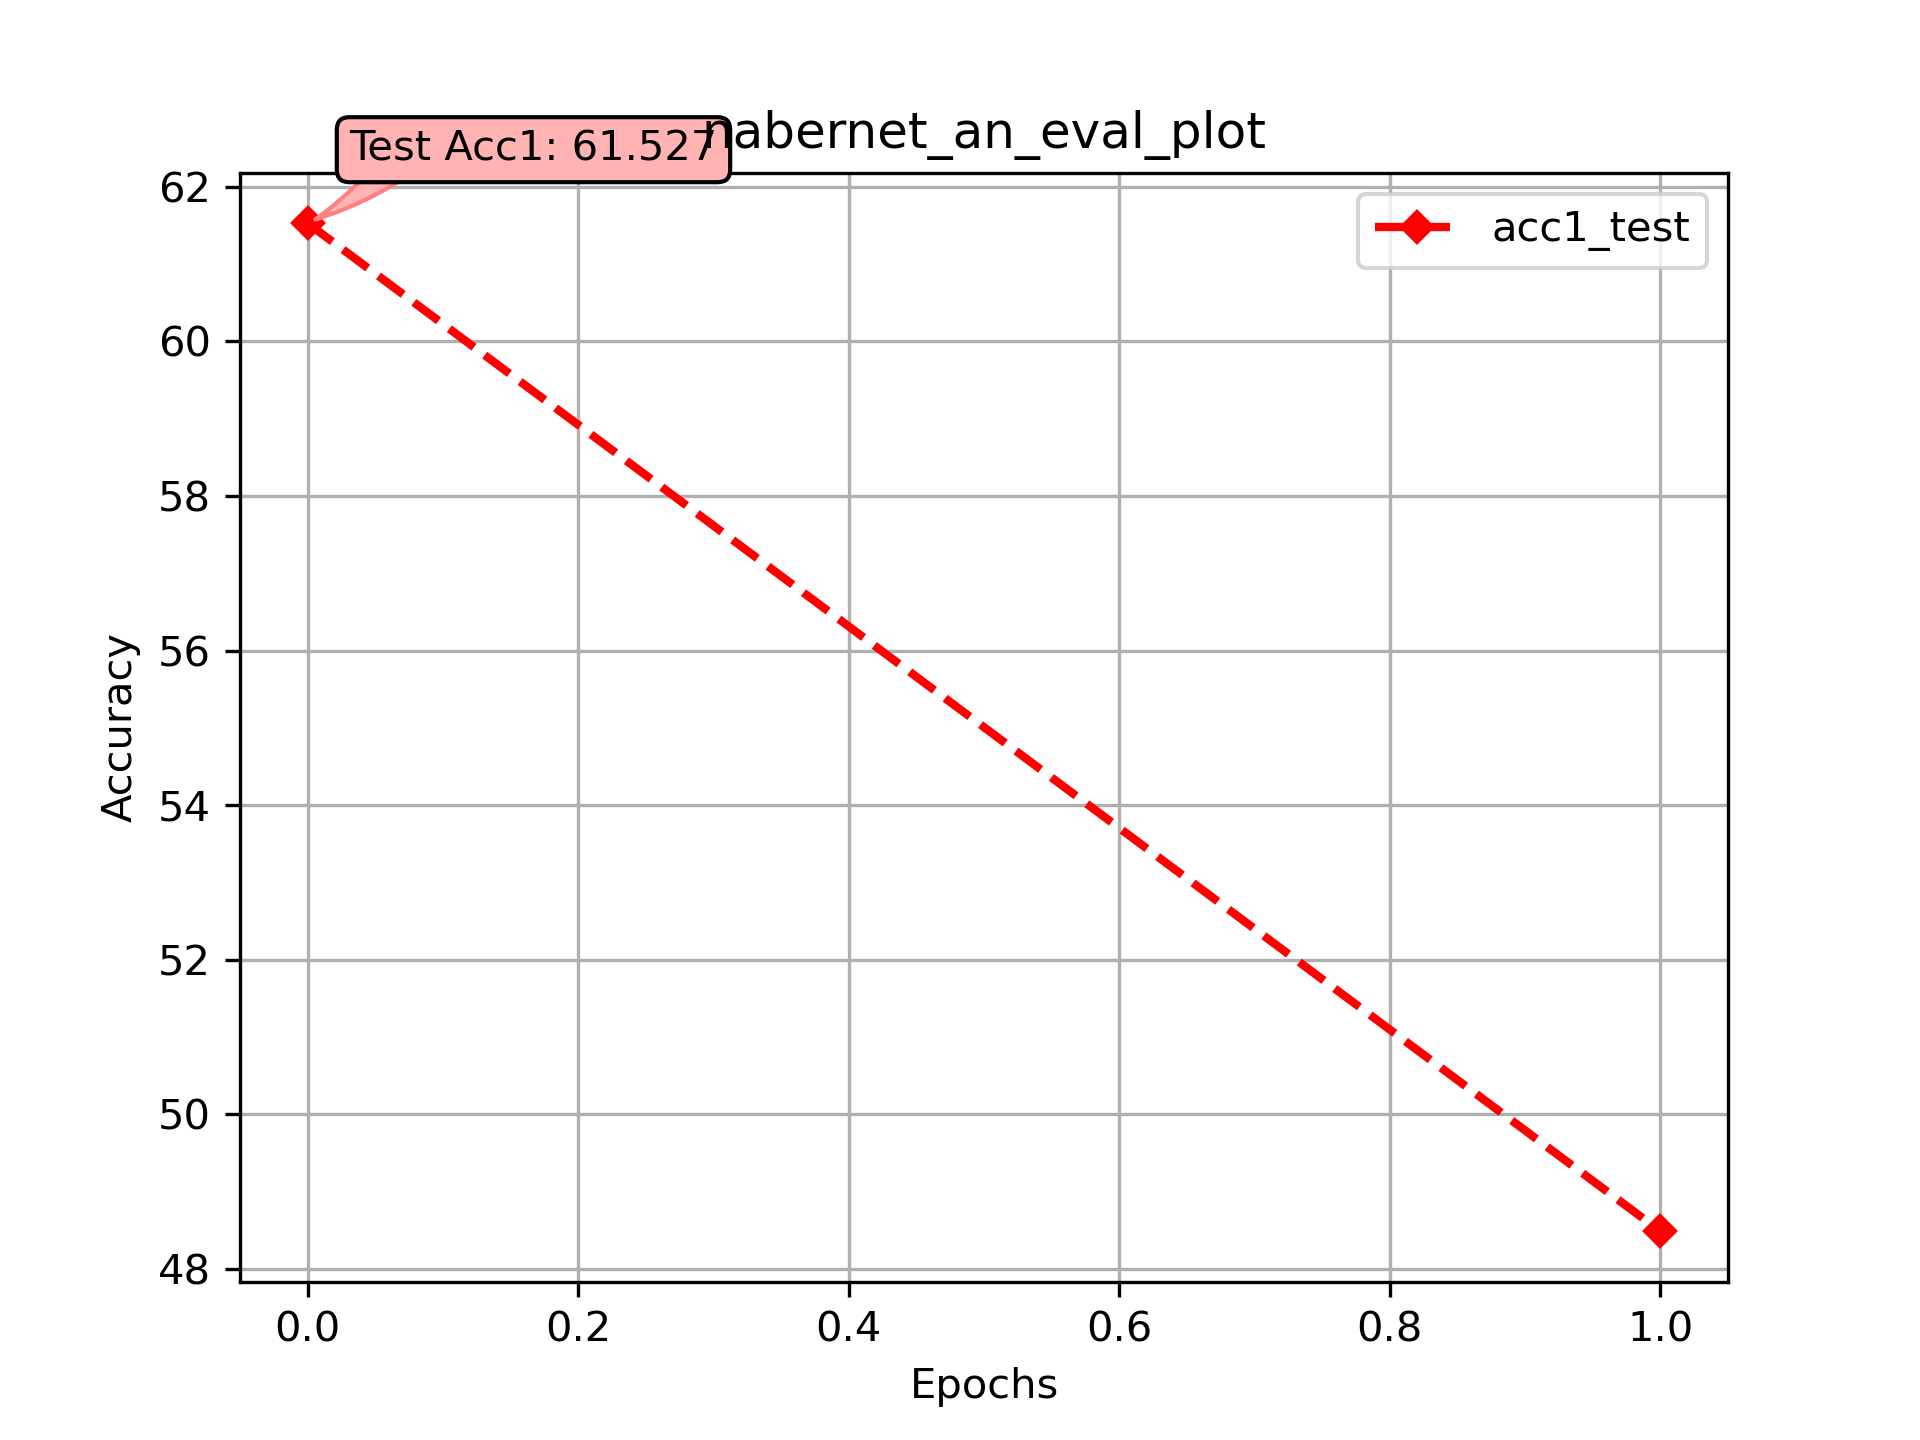
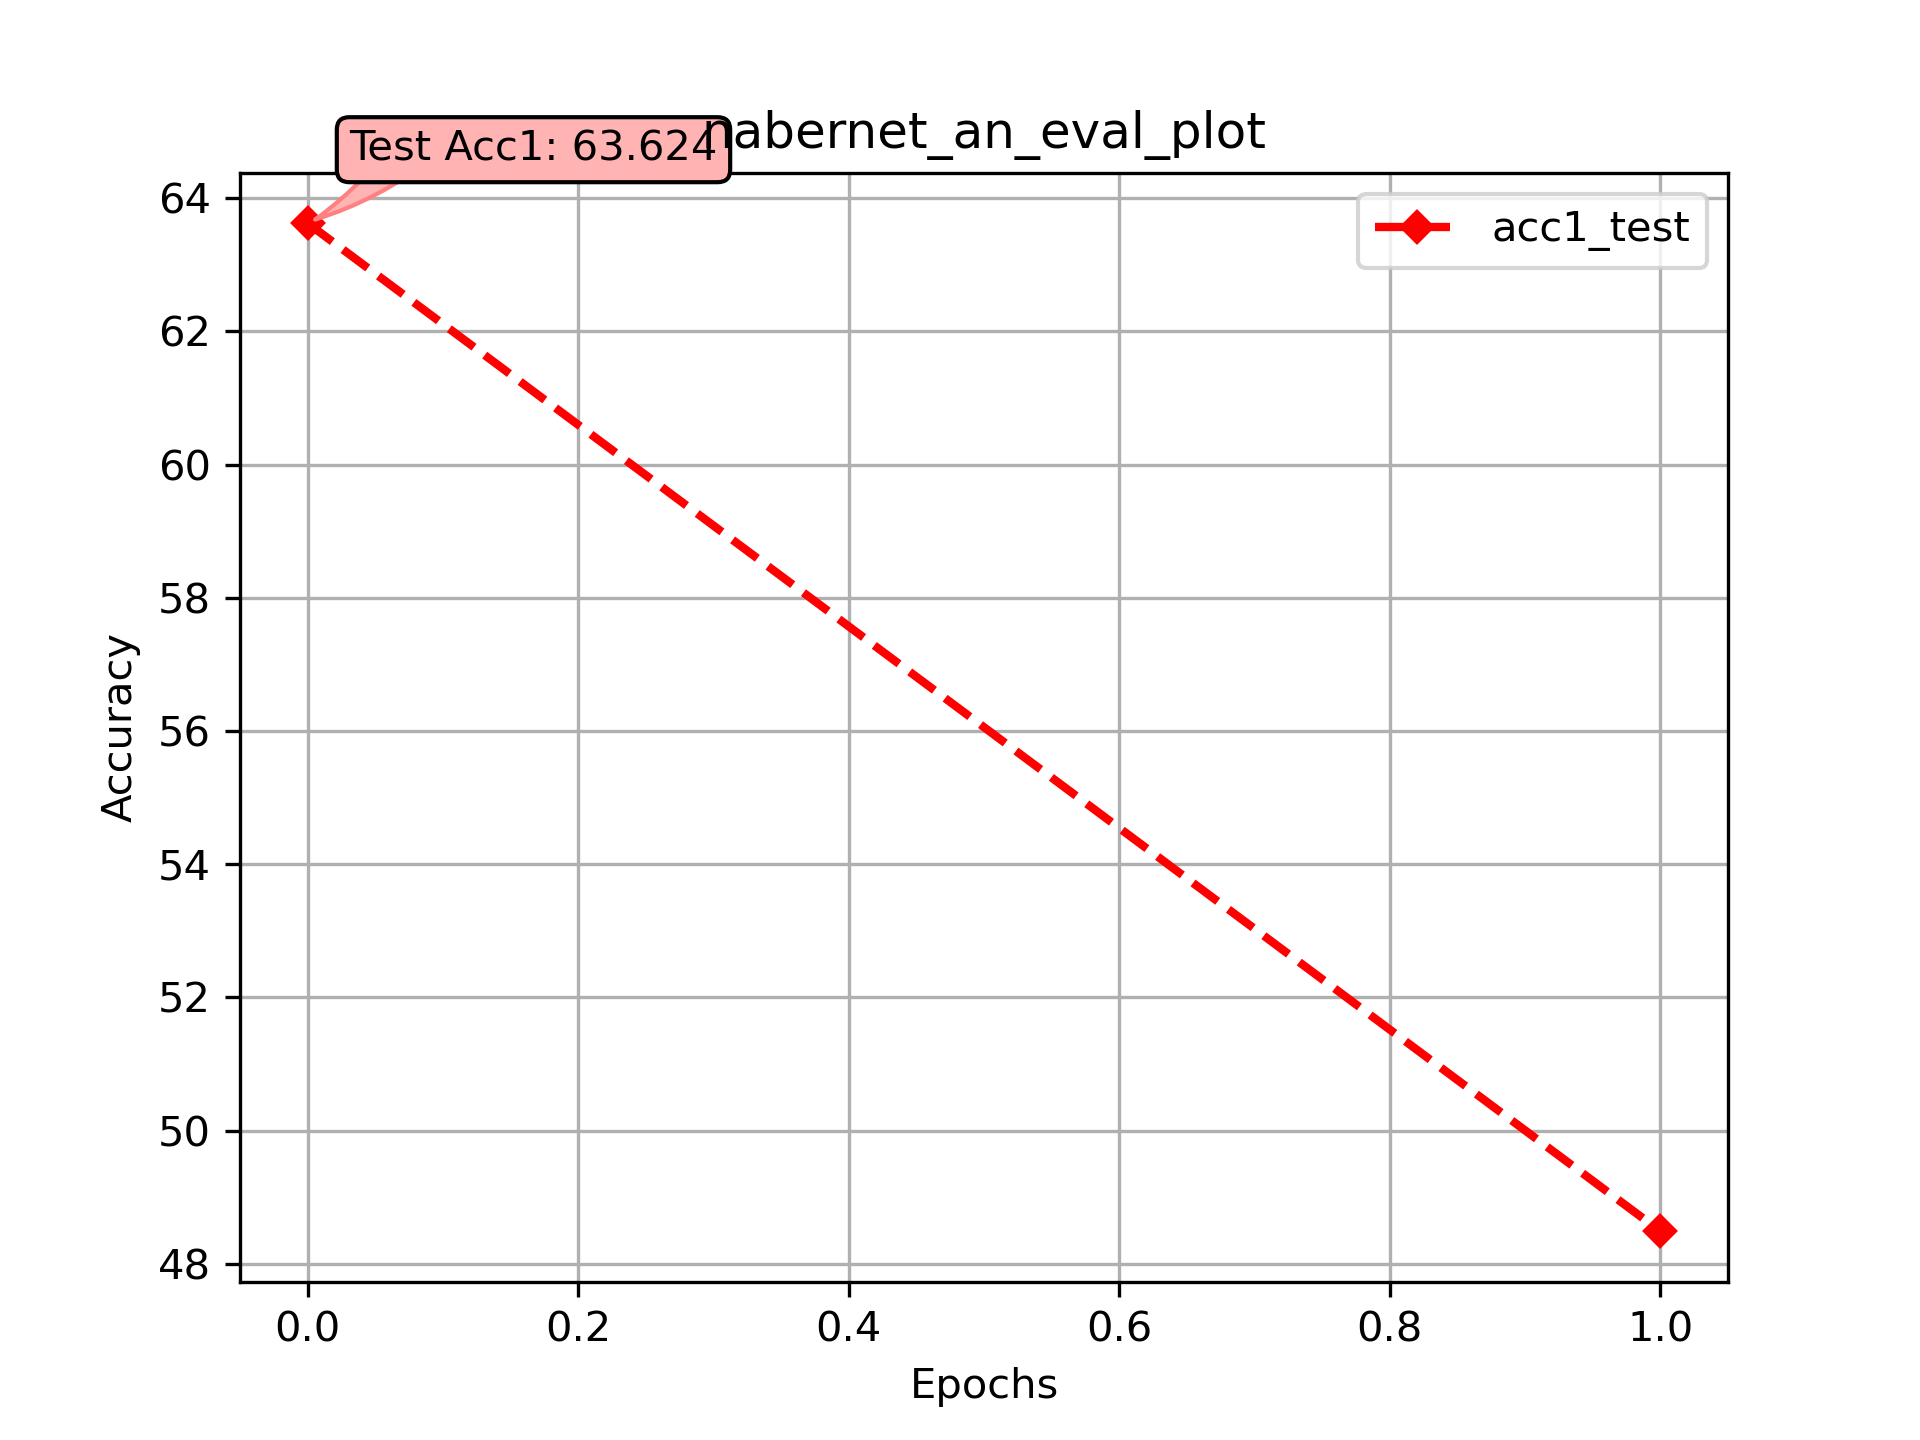
Updated resnet18_an and attempted evals. Found bug in evals (plot showed lower accuracy than actual result)

diff --git a/imc_main.py b/imc_main.py
@@ -39,18 +39,18 @@ random.seed(12)
 # =============================================================
 # SELECT: Model, Name, and test_only
 # =============================================================
-model_name = "resnet18_bn"
+model_name = "resnet18_an"
 model = resnet18(pretrained=False)
 # model_name = "resnet50_bn"
 # model = resnet50(pretrained=False)
 # model_name = "vgg16_bn"
 # model = vgg16(pretrained=False)
-# model_name = "nabernet_bn"
+# model_name = "nabernet_an"
 # model = NaberNet(0)
 
 # Whether the main should just run a test, or do a full fit.
-params = [True, True, False, False]         # Training
-# params = [False, True, False, False]        # Testing
+# params = [True, True, False, False]         # Training
+params = [False, True, False, False]        # Testing
 # params = [False, False, True, False]        # Pruning
 # params = [False, False, False, True]        # Quantizing
 # params = [False, False, True, True]         # Pruning & Quantizing
@@ -75,10 +75,11 @@ elif '_c' in model_name:
 
 if "naber" in model_name and training and 'ucsd' not in SET_NAME.lower():
     model = NaberNet(1 if 'sars' in SET_NAME.lower() else 2)
+
 # =============================================================
 # SELECT: Optimizer and learning rate.
 # =============================================================
-learning_rate = 0.001
+learning_rate = 0.002
 optimizer = optim.Adam(model.parameters(), lr=learning_rate)
 
 # =============================================================
@@ -237,7 +238,8 @@ if __name__ == '__main__':
     else:
         acc_original = test(model=model, model_name=model_name, test_loader=test_loader, divider=divider, re_test=True)
         print(divider)
-        print("\n> All Epochs completed!")
+        acc1 = '{:.1f}%'.format(acc_original)
+        print("\n> Testing Complete:\t\t\t ", '{:>6}'.format(acc1))
 
     if graph:
         print("\n> Generating Plots...")
